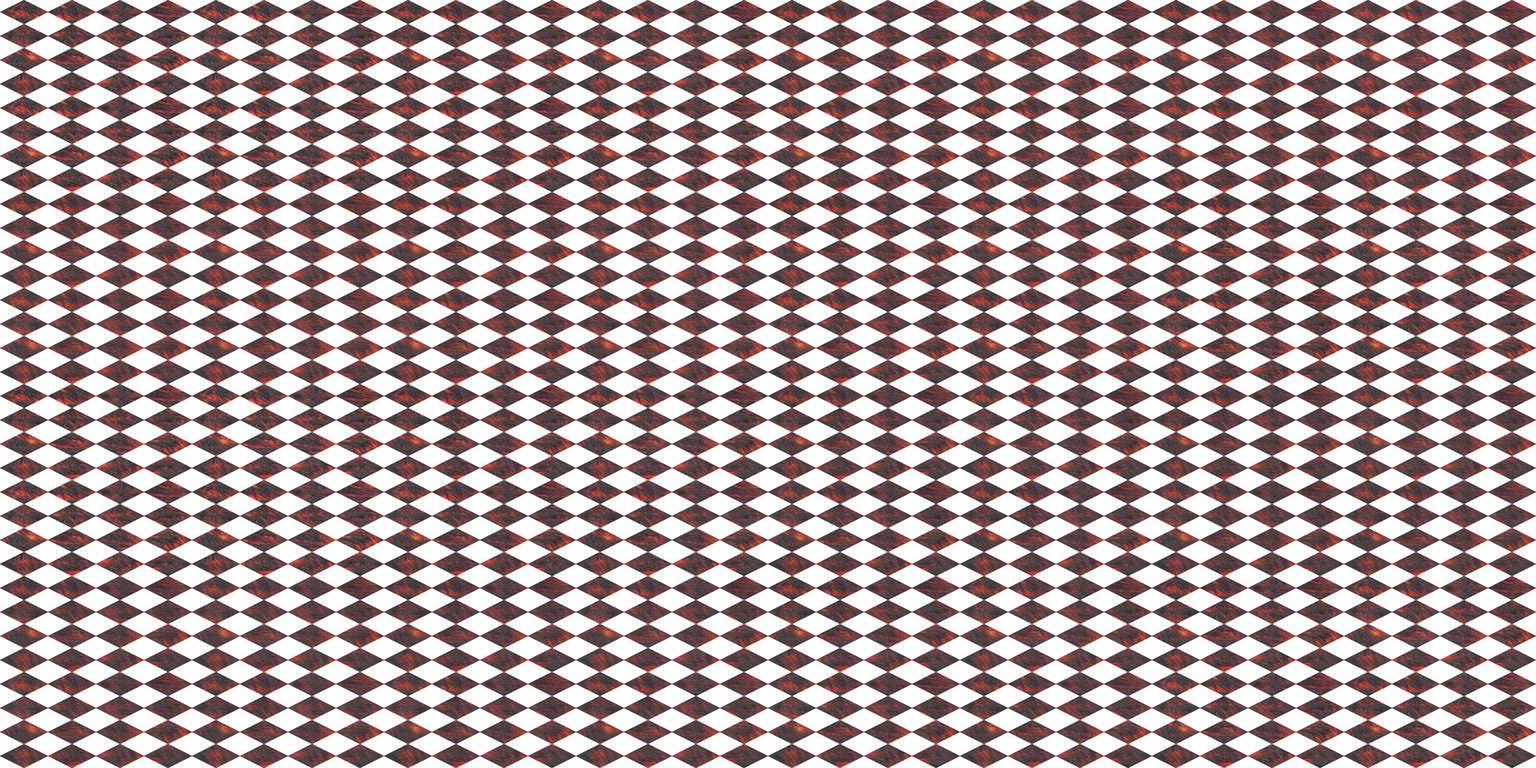
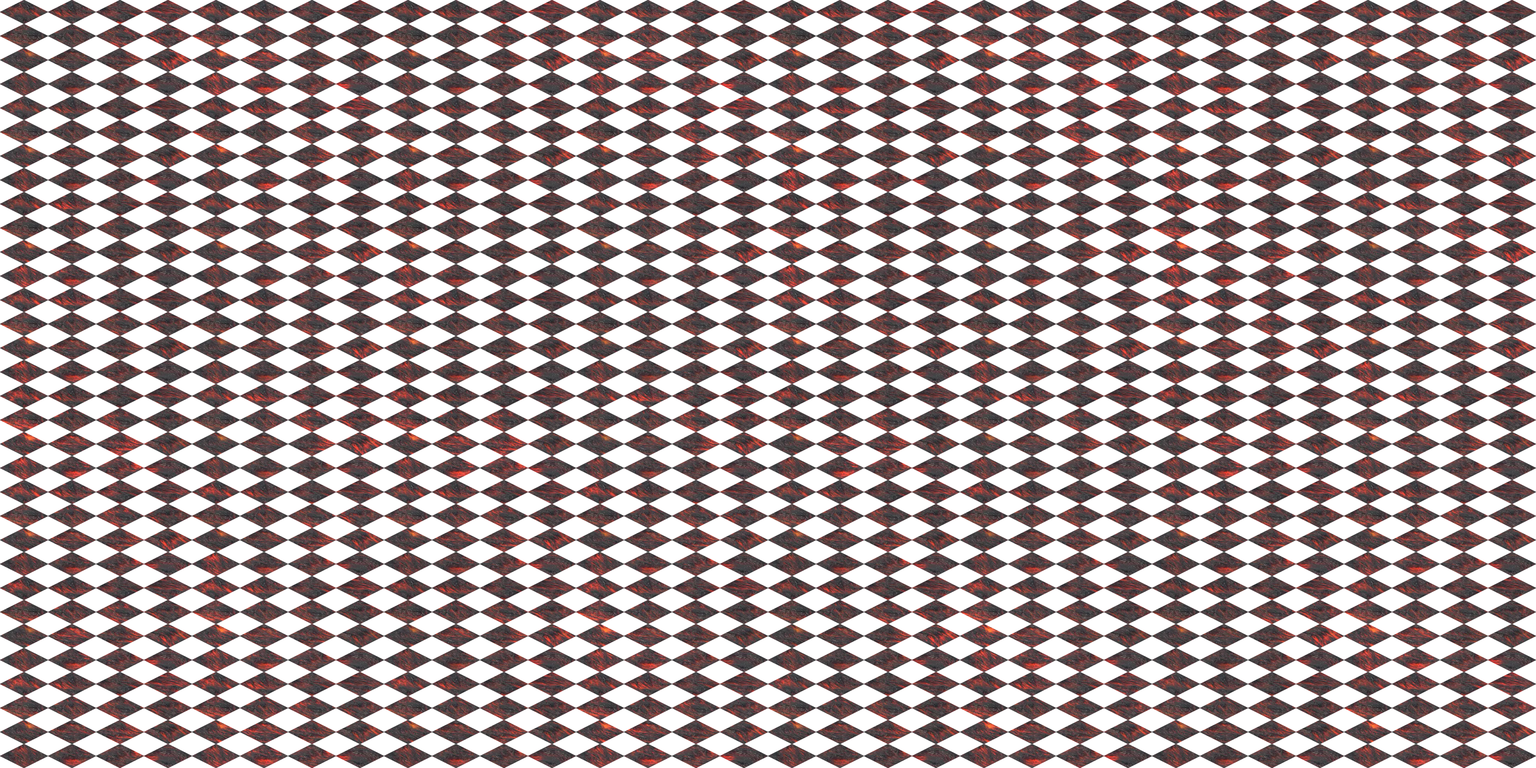
fix: lave animée nette, la chaleur circule dans les fissures
La roche ne bouge plus (le fondu entre deux copies décalées rendait flou) :
des vagues de chaleur font varier la lueur des fissures, en boucle.

Claude-Session: https://claude.ai/code/session_011VCvJhVrjz836W3ZDEZDfW

Changed region(s): [[0.0, 0.0, 1.0, 1.0]]

diff --git a/scripts/render-model/ground.html b/scripts/render-model/ground.html
@@ -328,9 +328,49 @@ window.renderGround = async (opts) => {
   return tiles;
 };
 
+// The emission map of a photo ground (lava) over the whole block, its glow multiplied by travelling
+// waves of heat (periodic noise at time t, so the loop is seamless): brighter and dimmer bands pass
+// through the cracks while the rock does not move.
+let emissionImg = null;
+async function heatMap({ id, repeat, anim }, t) {
+  if (!emissionImg || emissionImg.id !== id) {
+    const img = await new Promise((ok, ko) => { const i = new Image(); i.onload = () => ok(i); i.onerror = ko; i.src = `/tex/${id}/${id}_1K-JPG_Emission.jpg`; });
+    const S = 2048, cell = S / repeat;
+    const c = document.createElement('canvas');
+    c.width = c.height = S;
+    const g = c.getContext('2d');
+    for (let y = 0; y < repeat; y++) for (let x = 0; x < repeat; x++) g.drawImage(img, x * cell, y * cell, cell, cell);
+    emissionImg = { id, data: g.getImageData(0, 0, S, S), S };
+  }
+  const { data, S } = emissionImg;
+  const NS = 128;
+  const a = periodicNoise(NS, 9, 5, t), b = periodicNoise(NS, 14, 41, t);
+  const out = new ImageData(S, S);
+  const d = out.data, src = data.data, k = S / NS;
+  const lo = anim.heat[0], hi = anim.heat[1];
+  for (let y = 0; y < S; y++) {
+    const gy = y / k, y0 = Math.floor(gy), fy = gy - y0, y1 = (y0 + 1) % NS;
+    for (let x = 0; x < S; x++) {
+      const gx = x / k, x0 = Math.floor(gx), fx = gx - x0, x1 = (x0 + 1) % NS;
+      const v = (n) => (n[y0 * NS + x0] * (1 - fx) + n[y0 * NS + x1] * fx) * (1 - fy) + (n[y1 * NS + x0] * (1 - fx) + n[y1 * NS + x1] * fx) * fy;
+      const h = v(a) * 0.6 + v(b) * 0.4;
+      const f = lo + (hi - lo) * h * h;
+      const i = (y * S + x) * 4;
+      d[i] = Math.min(255, src[i] * f); d[i + 1] = Math.min(255, src[i + 1] * f); d[i + 2] = Math.min(255, src[i + 2] * f); d[i + 3] = 255;
+    }
+  }
+  const c = document.createElement('canvas');
+  c.width = c.height = S;
+  c.getContext('2d').putImageData(out, 0, 0);
+  const tex = new THREE.CanvasTexture(c);
+  tex.wrapS = tex.wrapT = THREE.RepeatWrapping;
+  tex.colorSpace = THREE.SRGBColorSpace;
+  return tex;
+}
+
 // A looping animation of the ground: `anim.frames` blocks (4 per row) in one image, frame f at column
 // f % 4, row f / 4, each laid out like the sheet. Water: its waves travel (periodic, so the loop is
-// seamless). Photo grounds (lava): the surface creeps along `anim.flow` ([x, y] tiles per loop) with
+// seamless). Lava (`anim.heat`: [dimmest, brightest] glow factor): heatMap above. Other photo grounds: the surface creeps along `anim.flow` ([x, y] tiles per loop) with
 // the flow-map trick: two copies half a loop apart, cross-faded, so it loops without any jump; the glow
 // also breathes (`anim.pulse`).
 const blendA = document.createElement('canvas'), blendB = document.createElement('canvas');
@@ -363,6 +403,18 @@ window.renderGroundAnim = async (opts) => {
       continue;
     }
     mat.emissiveIntensity = glow * (1 + pulse * Math.sin(t * 2 * Math.PI));
+    if (opts.anim.heat) {
+      // the rock stays still (sharp); waves of heat run through its cracks
+      if (mat.emissiveMap) mat.emissiveMap.dispose();
+      mat.emissiveMap = await heatMap(opts, t);
+      const k = (N + 2 * MARGIN) / N;
+      mat.emissiveMap.repeat.set(k, k);
+      mat.emissiveMap.offset.set(-MARGIN / N, -MARGIN / N);
+      mat.needsUpdate = true;
+      renderer.render(scene, cam);
+      cutTiles(renderer.domElement, actx, ox, oy);
+      continue;
+    }
     const wA = 1 - Math.abs(2 * t - 1); // copy A is invisible when it jumps back (t = 0)
     shot(t, blendA);
     shot((t + 0.5) % 1, blendB); // copy B jumps at t = 0.5, when A is fully shown
